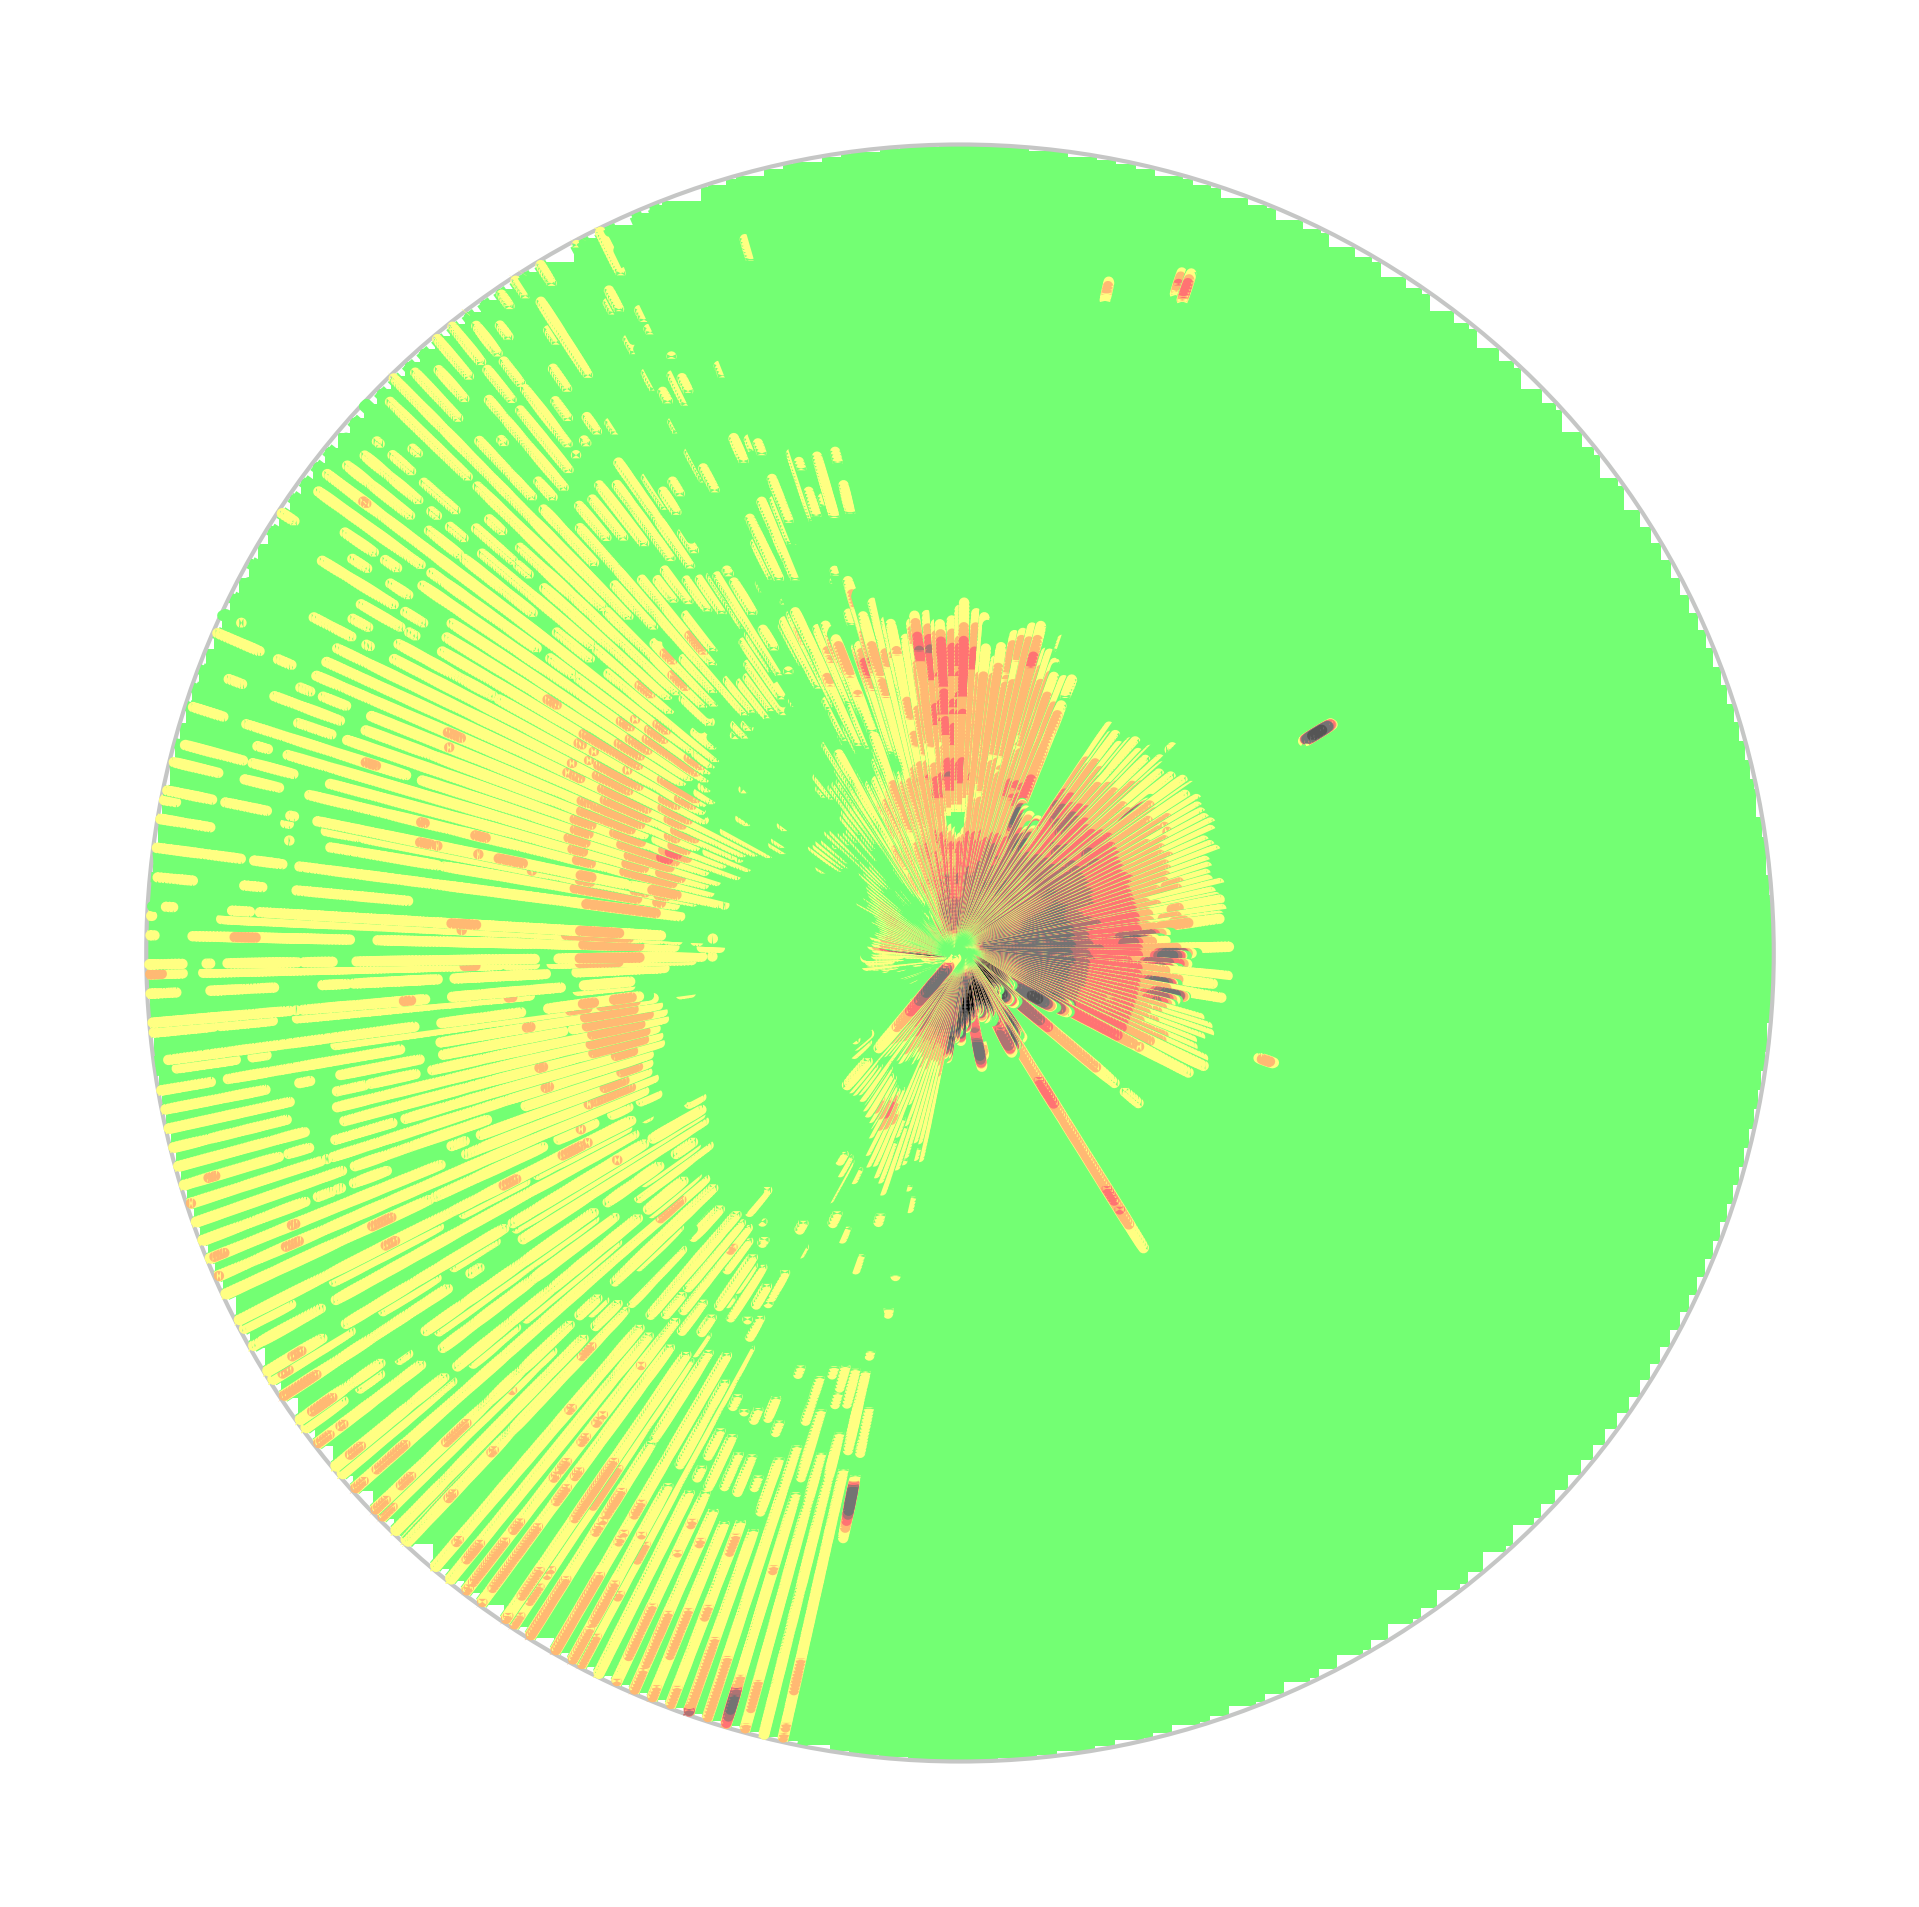
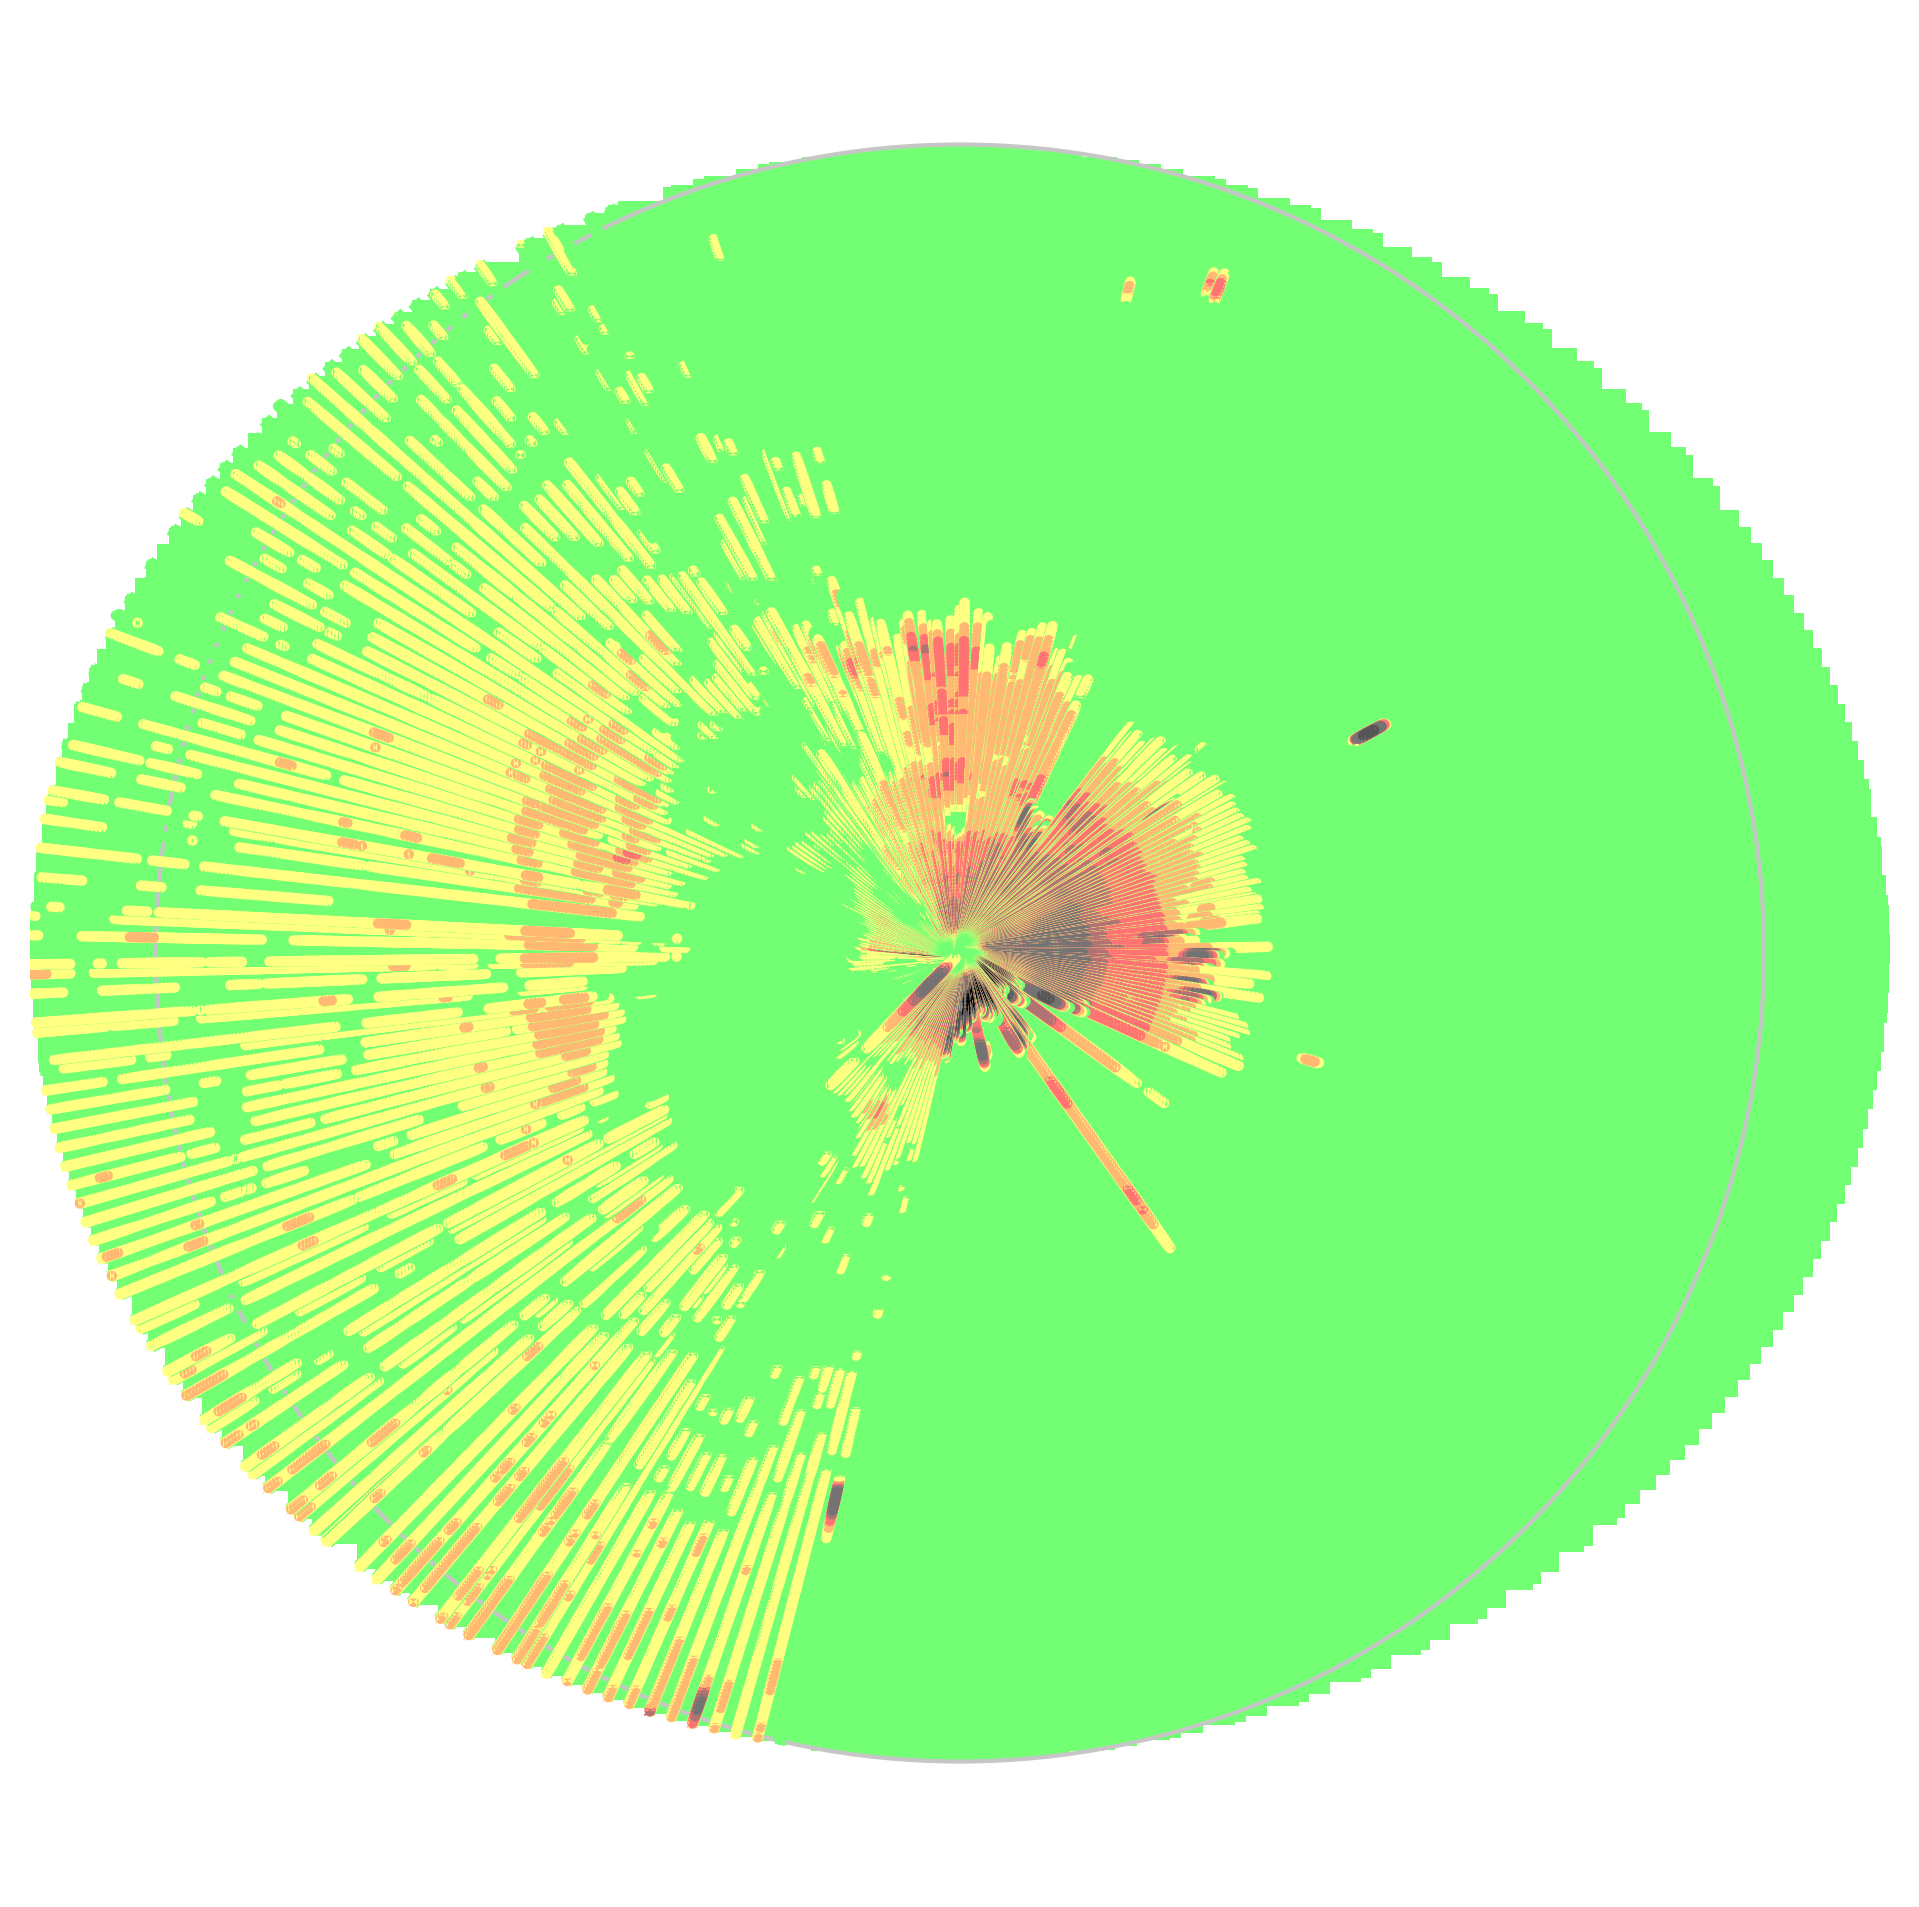
#IMPROVED Clear Rubbish Data

diff --git a/script/maplotlib_factory.py b/script/maplotlib_factory.py
@@ -3,23 +3,21 @@ import numpy as np
 import json
 import os
 import matplotlib.pyplot as plt
-import matplotlib.patches as mpathes
-from skimage import io
-from skimage.io.collection import MultiImage
 
 catlogDir = os.getcwd()
 
-fileDate = '20210423074550'
-filenameCatlog = catlogDir + "/static/json/" + fileDate + ".json"
-baseImgCatlog = catlogDir + "/static/img/baseImg.png"
-targetBeforeComposeCatlog = catlogDir + '/temp/' + fileDate + '.png'
-targetAfterComposeCatlog = catlogDir + '/temp/afterCompose.png'
+# 雷达坐标
+radarPosition = {'lat': 30.31394, 'lng': 120.132759}
+# 探测数据文件名称
+originFileName = '20210423074550'
 
-f_obj = open(filenameCatlog)
+# 探测数据文件目录、存储文件目录
+originFileCatelog = catlogDir + "/static/json/" + originFileName + ".json"
+targetComposeCatlog = catlogDir + '/temp/' + originFileName + '.png'
+
+# 探测数据文件序列化
+f_obj = open(originFileCatelog)
 datas = json.load(f_obj)
-
-# 平面坐标系：已知起点、方位角、距离，求坐标
-# axPosition = lambda angle,distance:[distance * np.cos(angle), distance * np.sin(angle)]
 
 # 球面（地球）坐标系：已知起点、方位角、距离，求坐标
 # var rate = Math.cos(startPoint.lat * Math.PI / 180); // 指定维度球面长度和赤道长度的比率
@@ -29,17 +27,8 @@ datas = json.load(f_obj)
 #     var y = Math.cos(r) * distance;
 #     x = x / lat_meter / rate; // x偏移量需要根据所在维度进行计算
 #     y = y / lat_meter;
-rate = np.cos(np.pi / 180)          # 指定维度球面长度和赤道长度的比率
+rate = np.cos(radarPosition['lat'] * np.pi / 180)          # 指定维度球面长度和赤道长度的比率
 axPosition = lambda angle,distance:[np.sin(angle * np.pi / 180.0) * distance / rate, np.cos(angle * np.pi / 180.0) * distance]
-
-# 绘制边界
-# fig, ax = plt.subplots()
-# boundary = mpathes.Circle(np.array([0, 0]), 7, fill=False, color="red")
-# print(type(boundary), boundary)
-# ax.add_patch(boundary)
-
-# 插入底图
-# baseImg = plt.imread(baseImgCatlog)
 
 contourfC = None
 contourC = None
@@ -50,6 +39,7 @@ ax = fig.add_subplot()
 boundary = plt.Circle(np.array([0, 0]), radius=7, color='#C5C6C5', fill=False, linewidth=1.0)
 ax.add_patch(boundary)
 
+# 径向数据处理
 for lineData in datas:
     x = []
     y = []
@@ -83,42 +73,11 @@ for lineData in datas:
         linestyles='solid',
         alpha=1
     )
-    # contourC.set_cmap('hot')
-    # contourC.set_clim(0, 800)
-
-# 嵌入底图
-# plt.imshow(baseImg, extent=[-8, 8, -8, 8]) 
-
-# 颜色条
-# plt.colorbar(contourfC, ticks=[0, 50, 100, 150, 200, 300, 500, 800])
 
 # 坐标轴
 plt.xticks(np.arange(-8, 9))
 plt.yticks(np.arange(-8, 9))
-
 plt.axis('off')
 
 # 图片生成
-plt.savefig(targetBeforeComposeCatlog, dpi=300, bbox_inches='tight', transparent=True)
-
-# ------------------------------------------------
-# # 正片叠底算法
-# imgMultiply = lambda imga, imgb:imga * imgb
-
-# # 正片叠底构建合成图
-# beforeComposeImg = io.imread(targetBeforeComposeCatlog)
-# beforeComposeImg = beforeComposeImg/255.0
-# print(type(beforeComposeImg), len(beforeComposeImg))
-
-# bottomBackgroundImg = io.imread(baseImgCatlog)
-# bottomBackgroundImg = bottomBackgroundImg/255.0
-# print(type(bottomBackgroundImg), len(bottomBackgroundImg))
-
-# targetComposeI = imgMultiply(bottomBackgroundImg, beforeComposeImg)
-# print(type(targetComposeI), len(targetComposeI))
-
-# io.imsave(targetAfterComposeCatlog, targetComposeI)
-# ------------------------------------------------
-
-# 窗口展示
-# plt.show() 
+plt.savefig(targetComposeCatlog, dpi=300, bbox_inches='tight', transparent=True)
